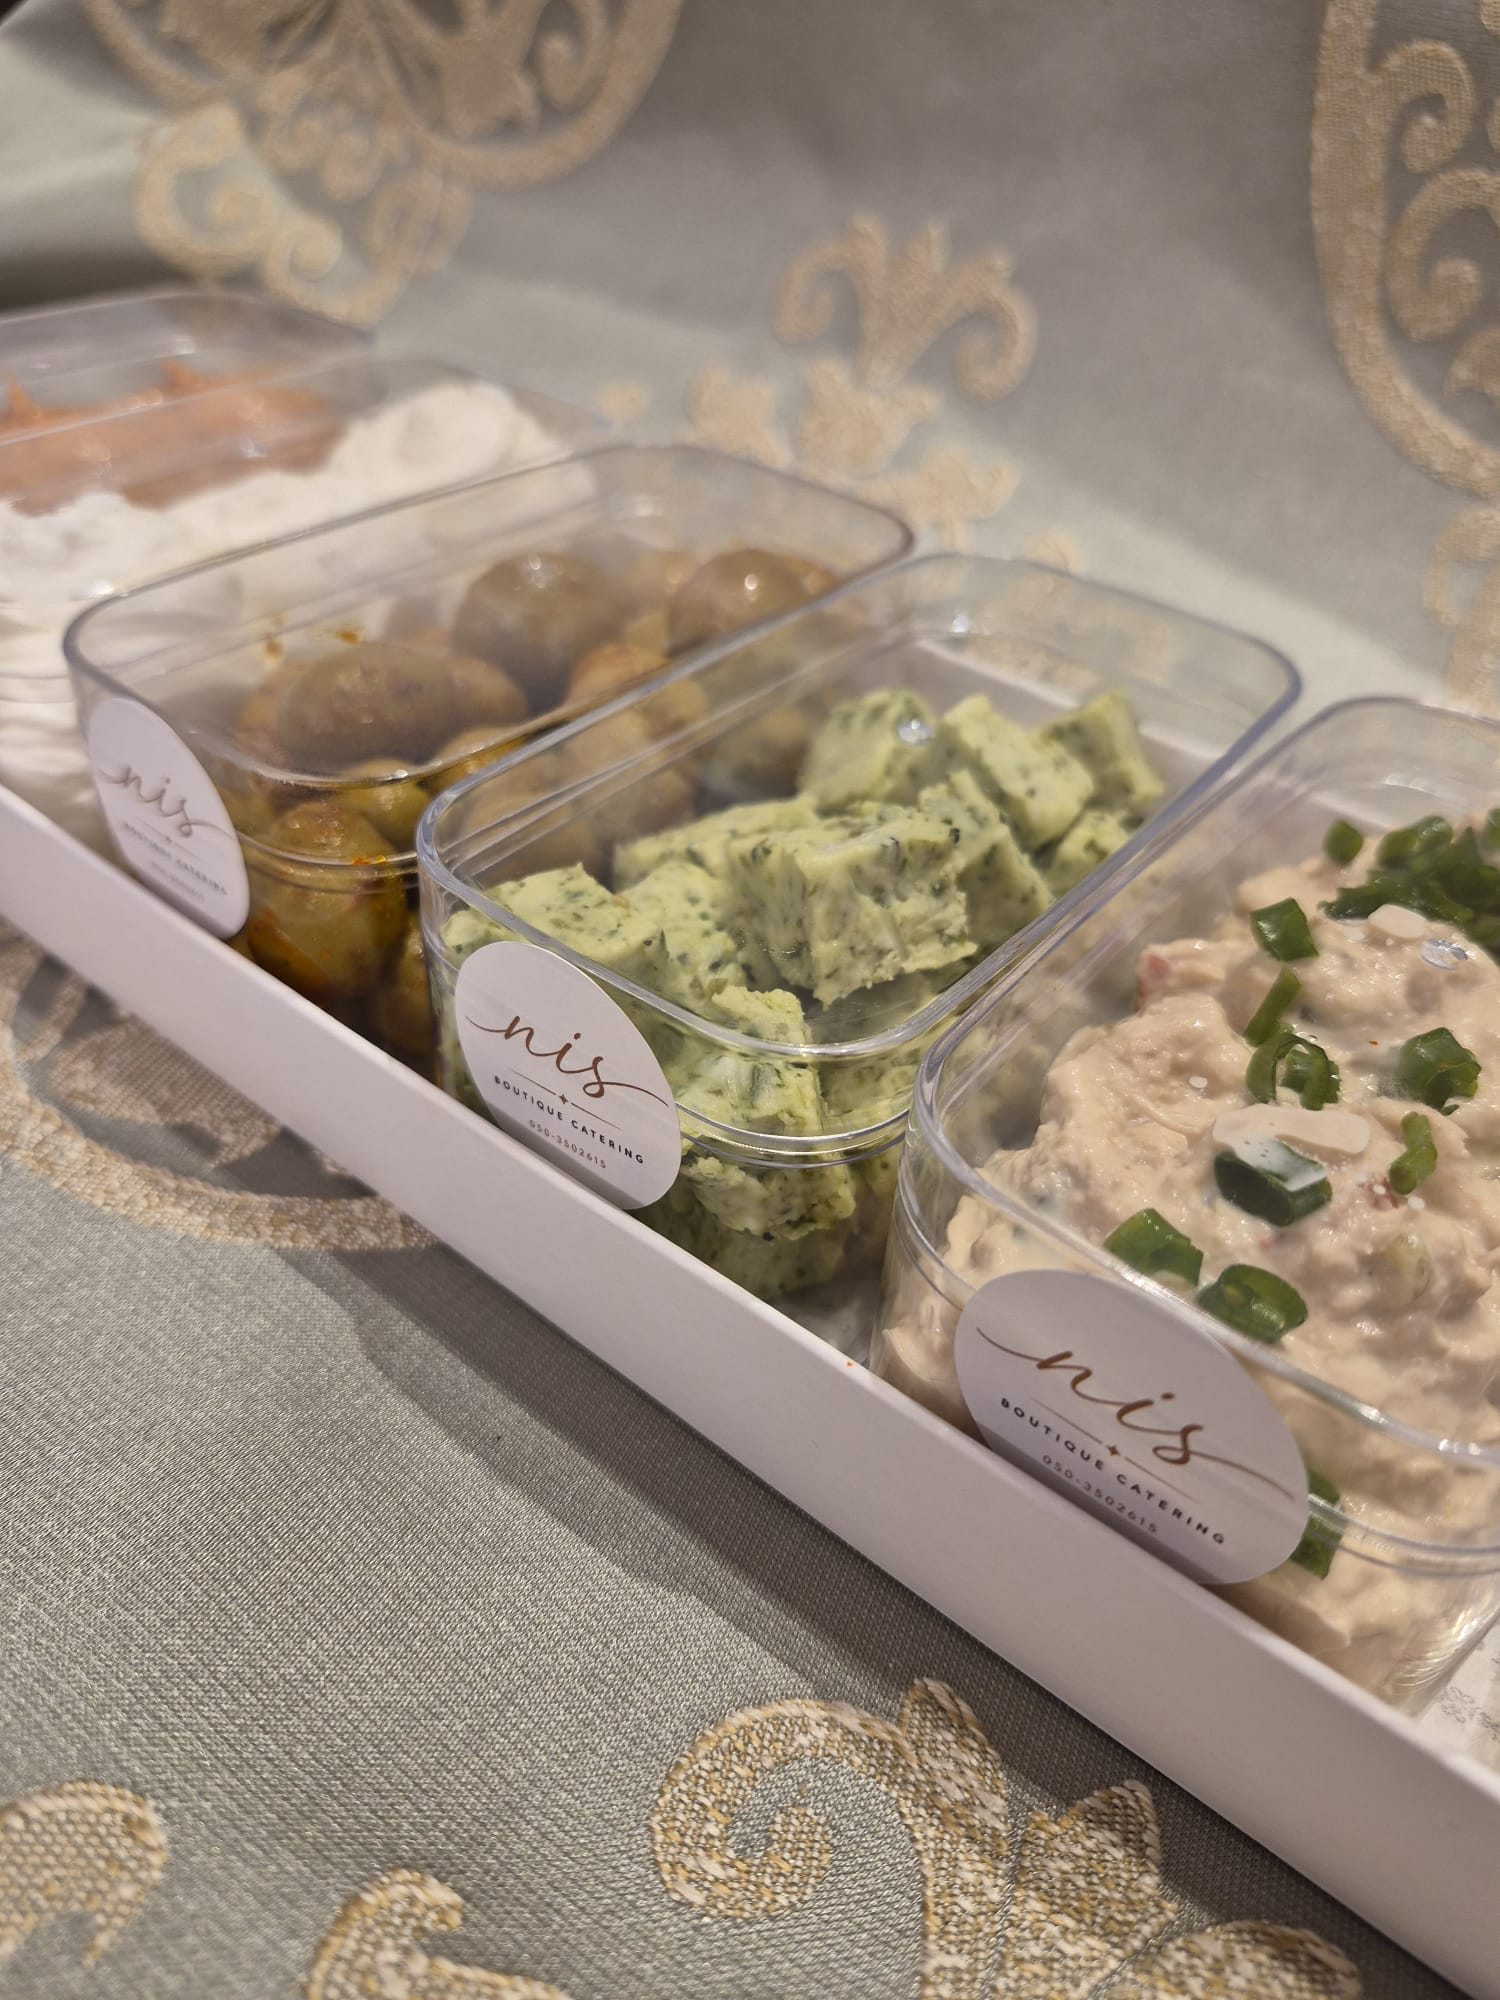
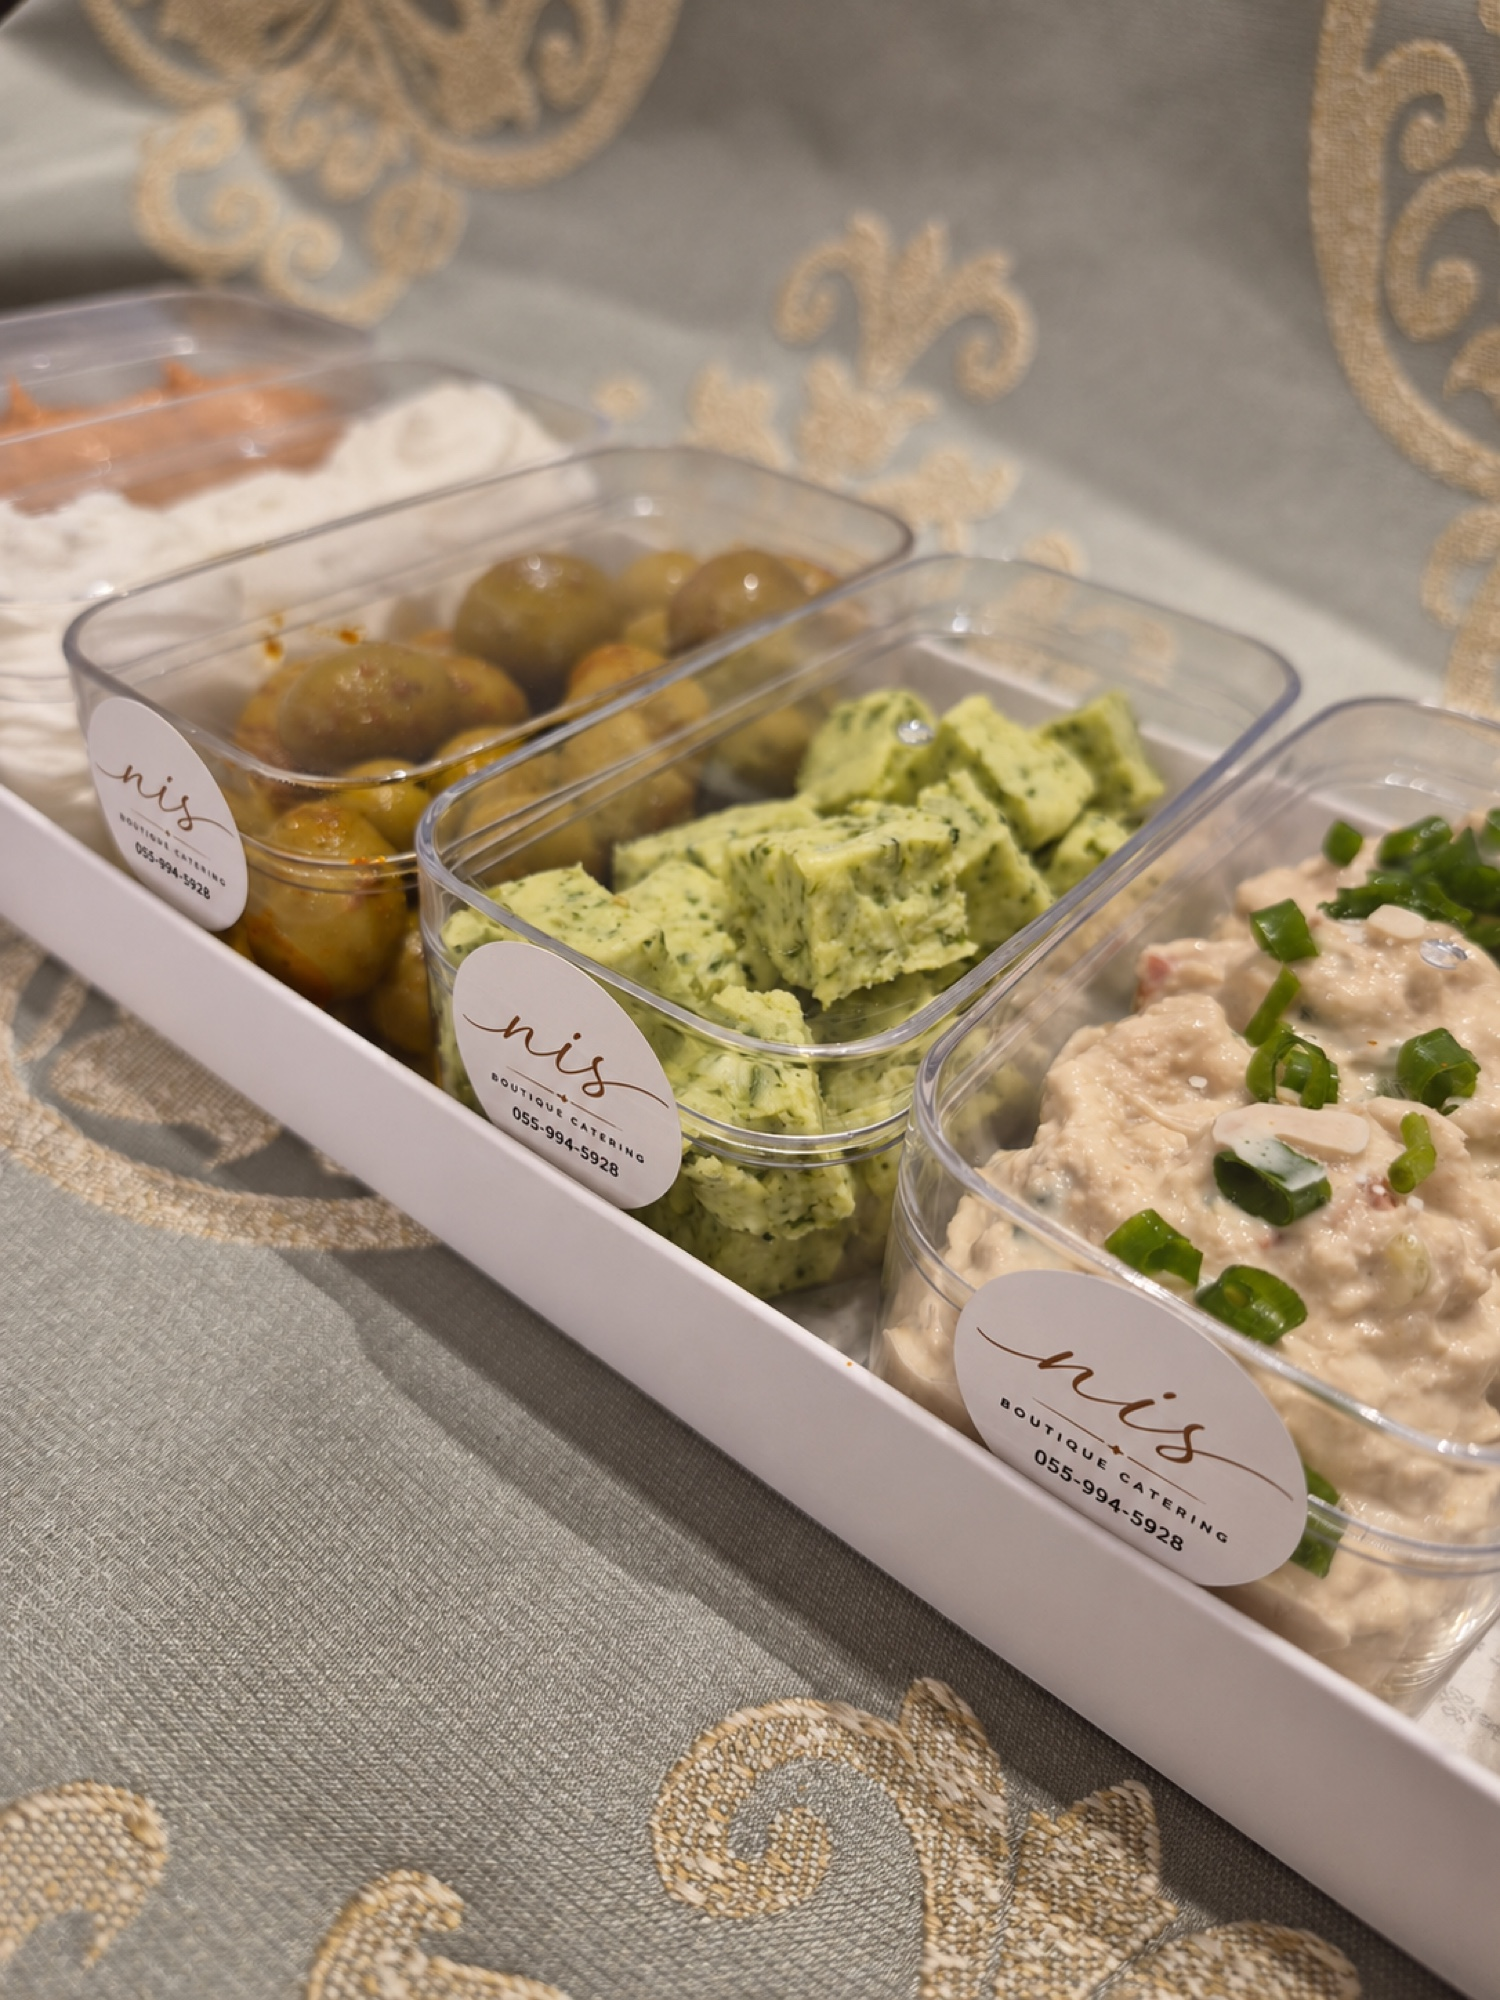
fix: correct dip tray branding and mousse title

diff --git a/apps/frontend/nis-boutique-catering/src/App.test.tsx b/apps/frontend/nis-boutique-catering/src/App.test.tsx
@@ -31,6 +31,7 @@ describe('NIS ordering site', () => {
     expect(products.every((product) => product.status === 'approved')).toBe(true);
     expect(products.some((product) => product.seq === 59)).toBe(false);
     expect(products.filter((product) => [50, 51, 55, 56, 57, 58, 63, 64, 65, 66, 67, 68, 69, 70, 71].includes(product.seq))).toHaveLength(15);
+    expect(products.find((product) => product.seq === 70)?.name).toBe('מוס טעמים משתנים - 24 יחידות');
     expect(screen.getByRole('heading', { name: 'מגשי מיקס ושייקים' })).toBeInTheDocument();
     expect(screen.getByRole('heading', { name: 'מוצרים חדשים' })).toBeInTheDocument();
     expect(screen.getAllByText('מחיר בהתאמה אישית')).toHaveLength(3);

diff --git a/apps/frontend/nis-boutique-catering/data/products.js b/apps/frontend/nis-boutique-catering/data/products.js
@@ -542,7 +542,7 @@ export const products = [
   {
     "seq": 70,
     "category": "מוצרים חדשים",
-    "name": "מוס - 24 יחידות",
+    "name": "מוס טעמים משתנים - 24 יחידות",
     "description": "טעמים משתנים. פרווה / חלבי.",
     "priceIls": 240,
     "priceLabel": null,
